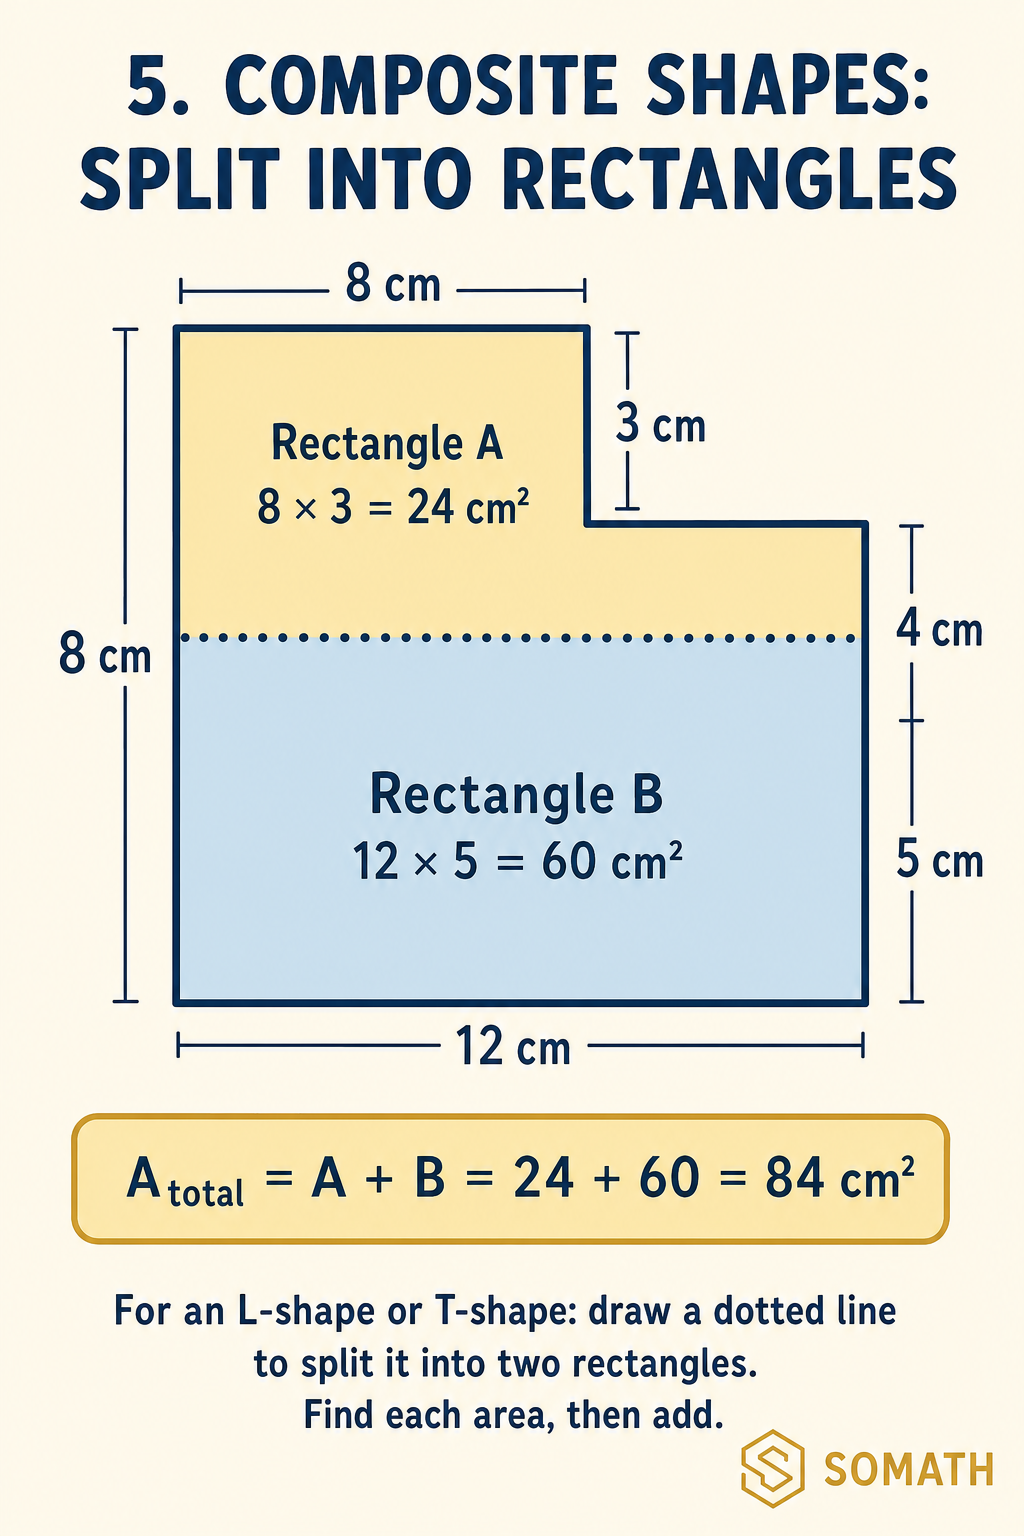
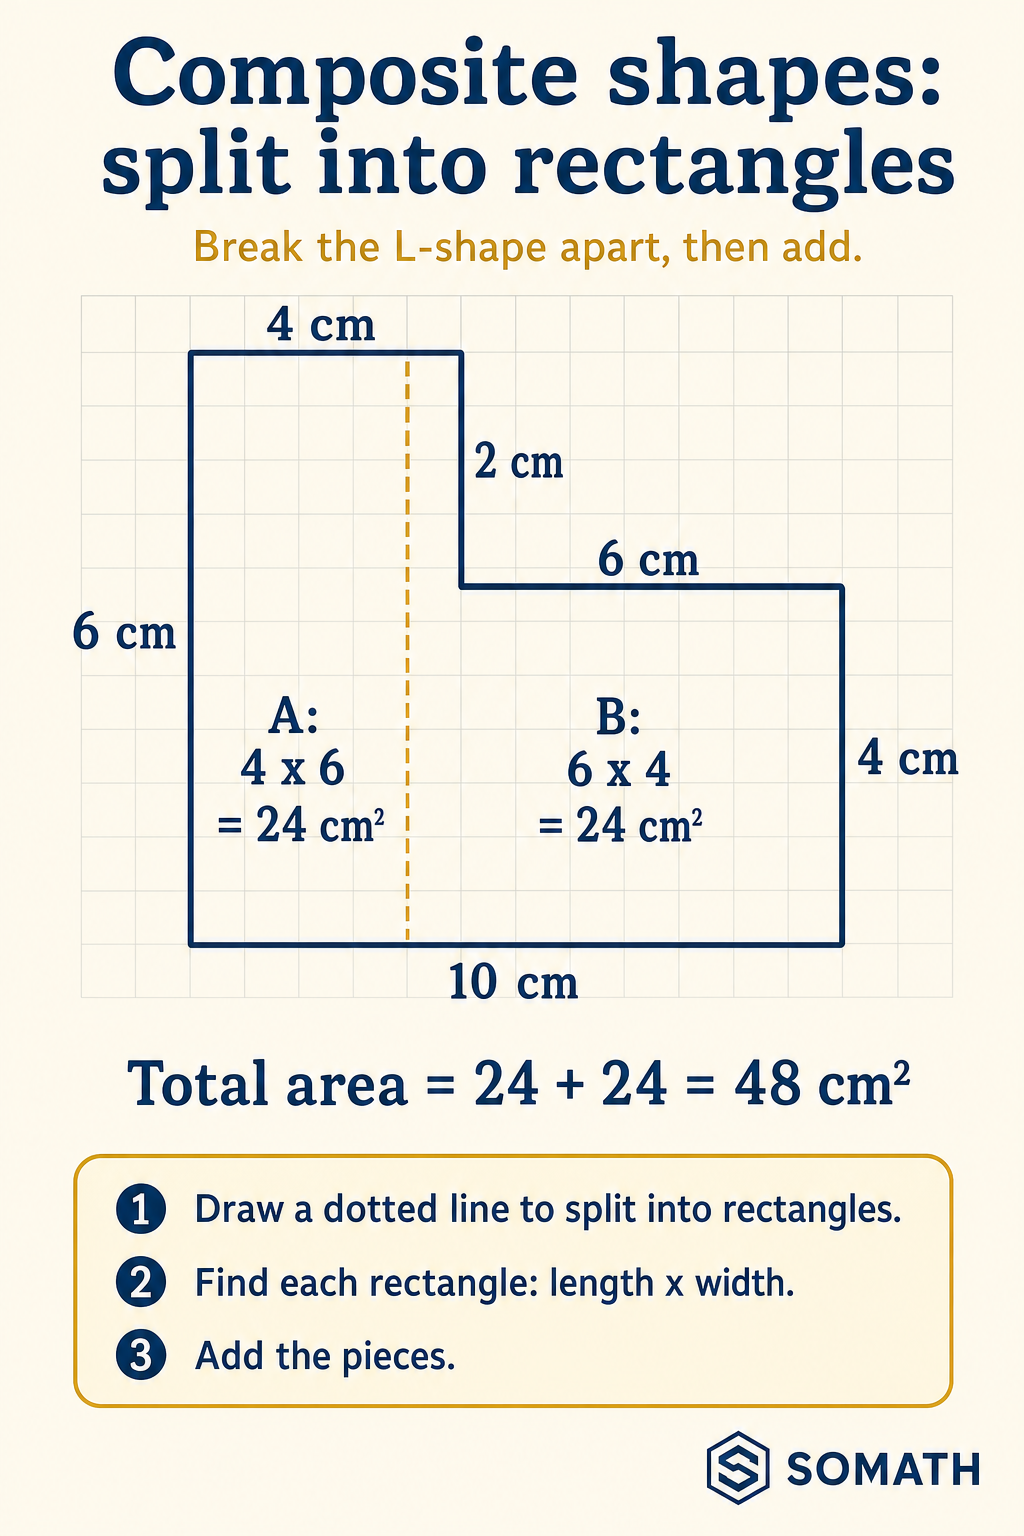
Kid Einsteins Class 14: fix poster 5 (composite L-shape) — regenerate with correct 10x6 outer, split into 4x6 + 6x4 = 48 cm², perimeter 32 cm; update theory, alt text, Q5.4, and llms-full.txt to match

diff --git a/posts/kid-einsteins-class-14-area-perimeter-word-problems.html b/posts/kid-einsteins-class-14-area-perimeter-word-problems.html
@@ -445,14 +445,14 @@
             <h2>5. Composite shapes — split into rectangles</h2>
             <p>Poster 5 of 8 — Kid Einsteins Class 14</p>
           </div>
-          <img class="poster-img" src="/assets/blog/kid-einsteins-class-14-area-perimeter/05-composite-shapes.png" alt="SOMATH poster 5: L-shape composite figure split into Rectangle A (8 × 3 = 24) and Rectangle B (12 × 5 = 60). Total area = 84 cm²." loading="lazy" width="1080" height="1440" />
+          <img class="poster-img" src="/assets/blog/kid-einsteins-class-14-area-perimeter/05-composite-shapes.png" alt="SOMATH poster 5: L-shape composite figure split into Rectangle A (4 × 6 = 24 cm²) and Rectangle B (6 × 4 = 24 cm²). Total area = 48 cm². Outer sides: 10 cm bottom, 6 cm left, 4 cm top, 2 cm inner drop, 6 cm inner across, 4 cm right." loading="lazy" width="1080" height="1440" />
           <div class="theory-box">
               <h3>What if the shape isn't a rectangle?</h3>
               <p>Real rooms and yards are often <strong>L-shaped</strong> or <strong>T-shaped</strong> — not simple rectangles. The trick is to <strong>split them into rectangles</strong> you already know how to handle.</p>
               <h3>Steps for a composite area</h3>
               <ol><li><strong>Draw a dotted line</strong> to split the shape into 2 (or more) rectangles.</li><li><strong>Label the sides</strong> of each rectangle. Sometimes you have to <em>calculate</em> a missing side by subtracting.</li><li><strong>Find each rectangle's area</strong> using length × width.</li><li><strong>Add the areas</strong> together.</li></ol>
               <p>For the L-shape on the poster:</p>
-              <ul><li>Rectangle A: 8 × 3 = 24 cm²</li><li>Rectangle B: 12 × 5 = 60 cm²</li><li>Total: 24 + 60 = 84 cm²</li></ul>
+              <ul><li>Rectangle A (left): 4 × 6 = 24 cm²</li><li>Rectangle B (right): 6 × 4 = 24 cm²</li><li>Total: 24 + 24 = 48 cm²</li></ul>
               <h3>Perimeter of a composite shape</h3>
               <p>For perimeter, you still just <strong>add every outside side</strong> — but be careful not to include the dotted line you drew inside. The dotted line is only there to help you count area.</p>
           </div>
@@ -477,9 +477,9 @@
                   </details>
                 </div>
                 <div class="q">
-                  <span class="qn">Q5.4</span> The poster's L-shape has outside sides of 8, 3, 4, 5, 12, and 8. What is its perimeter?
+                  <span class="qn">Q5.4</span> The poster's L-shape has outside sides of 10, 6, 4, 2, 6, and 4. What is its perimeter?
                   <details class="sol"><summary></summary>
-                    <div class="ans">Add every outside side. P = 8 + 3 + 4 + 5 + 12 + 8 = <strong>40 cm</strong>. (The dotted line inside doesn't count.)</div>
+                    <div class="ans">Add every outside side. P = 10 + 6 + 4 + 2 + 6 + 4 = <strong>32 cm</strong>. (The dotted line inside doesn't count.)</div>
                   </details>
                 </div>
                 <div class="q">
